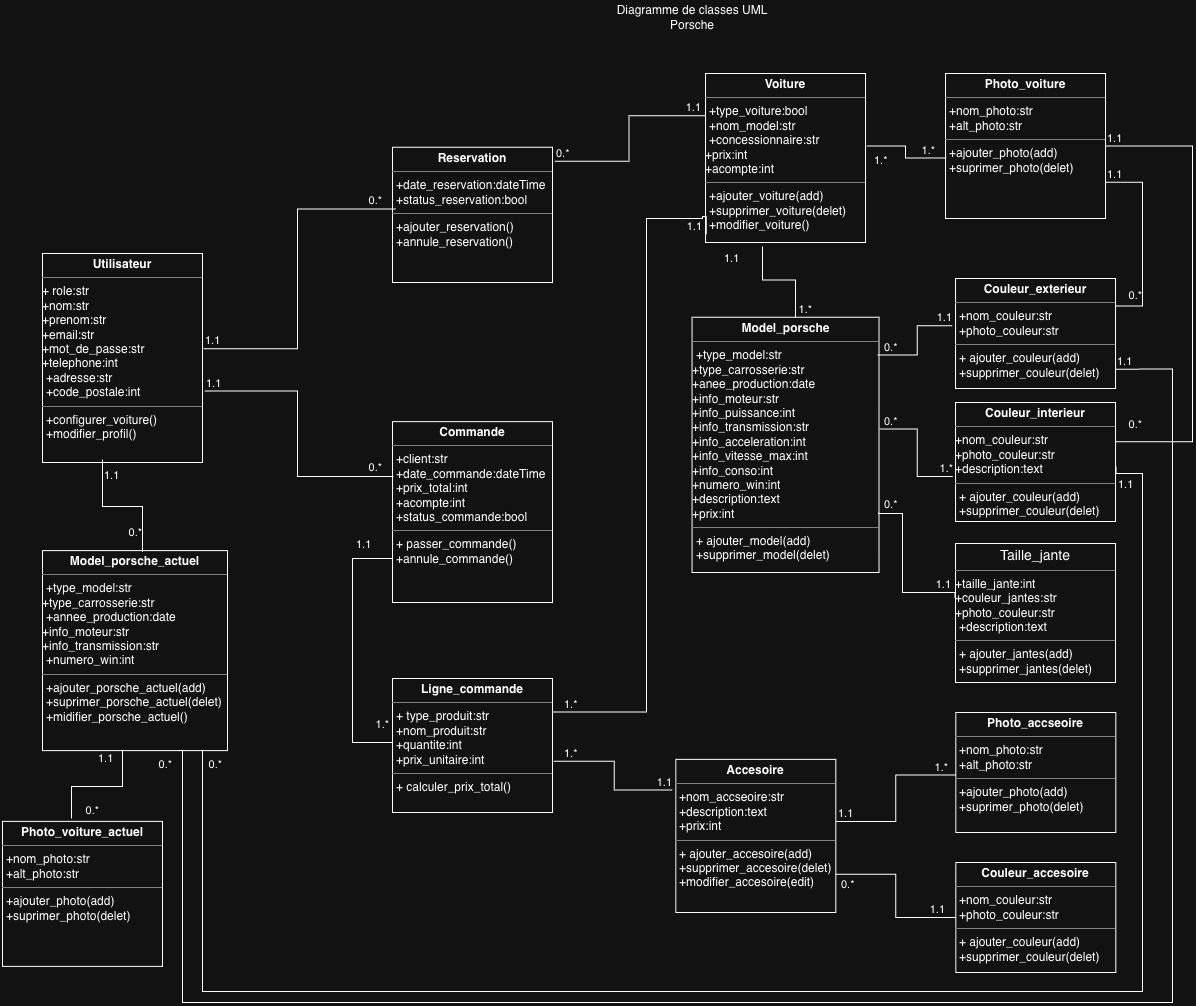
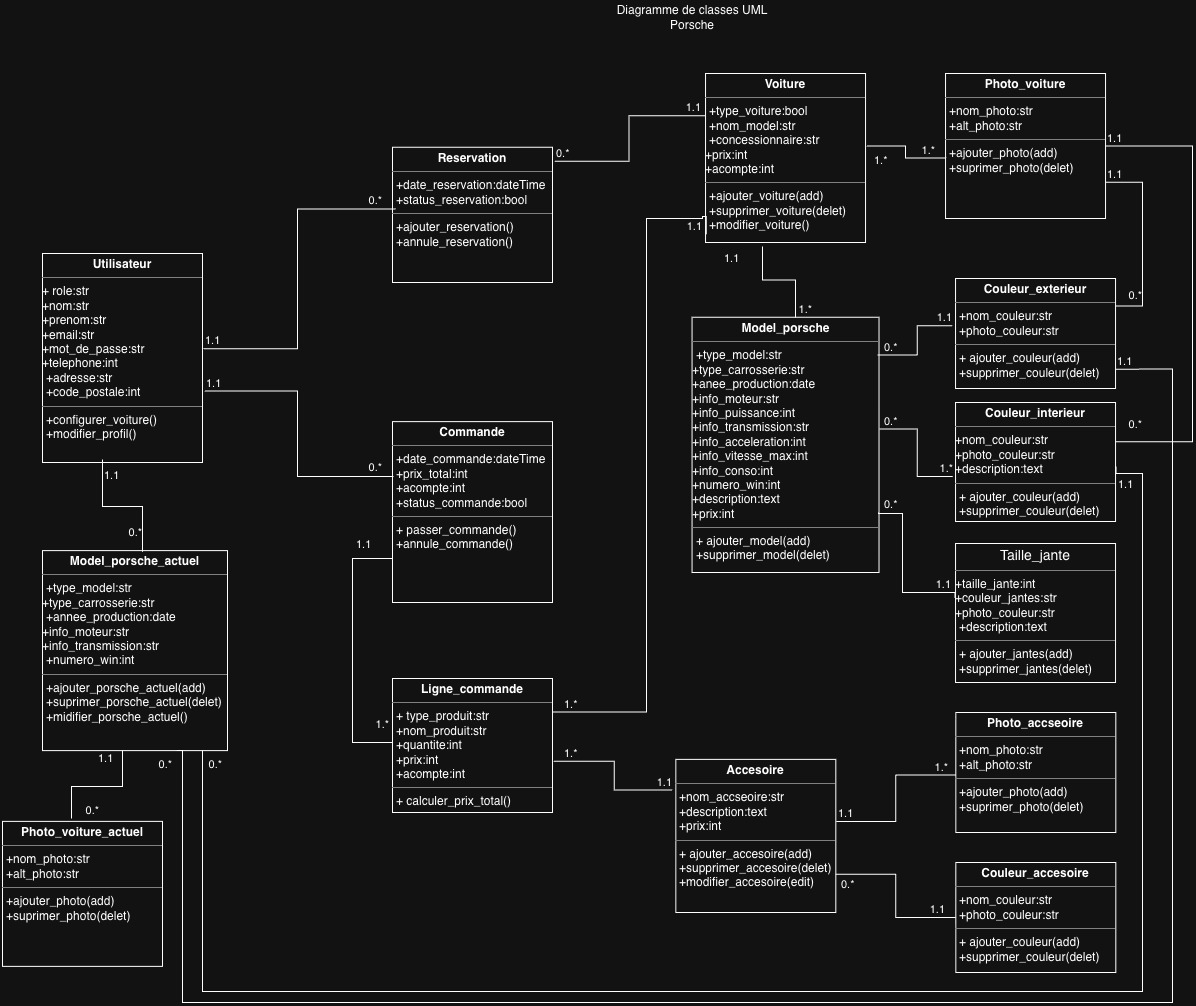
commit_3

Changed region(s): [[0.3403, 0.4314, 0.464, 0.5547], [0.3403, 0.7396, 0.4331, 0.8012]]

diff --git a/Node/controllers/reservation.controller.js b/Node/controllers/reservation.controller.js
@@ -66,7 +66,7 @@ const createReservation = async (req, res) => {
     // Populate pour retourner les détails complets
     const infoReservation = await Reservation.findById(newReservation._id)
       .populate("user", "nom prenom email telephone")
-      .populate("voiture", "type_model concessionnaire prix");
+      .populate("voiture", "nom_model concessionnaire prix");
 
     return res.status(201).json(infoReservation);
   } catch (error) {
@@ -79,7 +79,7 @@ const getAllReservations = async (req, res) => {
   try {
     const reservations = await Reservation.find()
       .populate("user", "nom prenom email telephone")
-      .populate("voiture", "type_model concessionnaire prix ")
+      .populate("voiture", "nom_model concessionnaire prix ")
       .sort({ date_reservation: -1 }); // Trier par date décroissante
     return res.status(200).json(reservations);
   } catch (error) {
@@ -92,7 +92,7 @@ const getReservationById = async (req, res) => {
   try {
     const reservation = await Reservation.findById(req.params.id)
       .populate("user", "nom prenom email telephone")
-      .populate("voiture", "type_model concessionnaire prix");
+      .populate("voiture", "nom_model concessionnaire prix");
     if (!reservation) {
       return res.status(404).json({ message: "réservation n'existe pas" });
     }
@@ -153,7 +153,7 @@ const updateReservation = async (req, res) => {
       { new: true }
     )
       .populate("user", "nom prenom email telephone")
-      .populate("voiture", "type_model concessionnaire prix");
+      .populate("voiture", "nom_model concessionnaire prix");
 
     if (!updatedReservation) {
       return res.status(404).json({ message: "réservation n'existe pas" });
@@ -190,7 +190,7 @@ const getReservationsByUser = async (req, res) => {
     }
 
     const reservations = await Reservation.find({ user: userId })
-      .populate("voiture", "type_model concessionnaire prix")
+      .populate("voiture", "nom_model concessionnaire prix")
       .sort({ date_reservation: -1 });
 
     return res.status(200).json(reservations);

diff --git a/Node/controllers/Commande.controller.js b/Node/controllers/Commande.controller.js
@@ -42,12 +42,12 @@ const getCommandeById = async (req, res) => {
     const ligneCommandes = await LigneCommande.find({
       commande: req.params.id,
     })
-      .populate("type_produit_a", "prix nom_produit")
-      .populate("type_produit_v", "prix nom_produit");
+      .populate("accesoire", "prix nom_accesoire")
+      .populate("voiture", "prix nom_model");
     const total = ligneCommandes.reduce((sum, line) => {
       return (
-        sum + line.type_produit_v.prix * line.quantite ||
-        line.type_produit_a.prix * line.quantite
+        sum + line.voiture.prix * line.quantite ||
+        line.accesoire.prix * line.quantite
       );
     }, 0);
     return res
@@ -112,12 +112,12 @@ const getPanier = async (req, res) => {
     const ligneCommandes = await LigneCommande.find({
       commande: panier._id,
     })
-      .populate("type_produit_a", "nom_produit prix")
-      .populate("type_produit_v", "nom_produit prix");
+      .populate("accesoire", "nom_accesoire prix")
+      .populate("voiture", "nom_model prix");
     const total = ligneCommandes.reduce((sum, line) => {
       return (
-        sum + line.type_produit_a.prix * line.quantite ||
-        line.type_produit_v.prix * line.quantite
+        sum + line.accesoire.prix * line.quantite ||
+        line.voiture.prix * line.quantite
       );
     }, 0);
     return res

diff --git a/Node/validations/couleur_exterieur.validation.js b/Node/validations/couleur_exterieur.validation.js
@@ -1,20 +1,22 @@
 import joi from "joi";
 
-export default function couleur_exterieurValidation(body){
-    const couleur_exterieurCreate = joi.object({
-      nom_couleur: joi.string().required(),
-      photo_couleur: joi.string().required(),
-      description: joi.string()
-    })
+export default function couleur_exterieurValidation(body) {
+  const couleur_exterieurCreate = joi.object({
+    nom_couleur: joi.string().required(),
+    photo_couleur: joi.string().required(),
+    description: joi.string(),
+    photo_voiture: joi.string().hex().length(24),
+  });
 
-    const couleur_exterieurUpdate = joi.object({
-      nom_couleur: joi.string(),
-      photo_couleur: joi.string(),
-      description: joi.string()
-    })
+  const couleur_exterieurUpdate = joi.object({
+    nom_couleur: joi.string(),
+    photo_couleur: joi.string(),
+    description: joi.string(),
+    photo_voiture: joi.string().hex().length(24),
+  });
 
-    return {
-        couleur_exterieurCreate: couleur_exterieurCreate.validate(body),
-        couleur_exterieurUpdate: couleur_exterieurUpdate.validate(body),
-    }
+  return {
+    couleur_exterieurCreate: couleur_exterieurCreate.validate(body),
+    couleur_exterieurUpdate: couleur_exterieurUpdate.validate(body),
+  };
 }

diff --git a/Node/validations/couleur_interieur.validation.js b/Node/validations/couleur_interieur.validation.js
@@ -1,20 +1,22 @@
 import joi from "joi";
 
-export default function couleur_interieurValidation(body){
-    const couleur_interieurCreate = joi.object({
-      nom_couleur: joi.string().required(),
-      photo_couleur: joi.string().required(),
-      description: joi.string()
-    })
+export default function couleur_interieurValidation(body) {
+  const couleur_interieurCreate = joi.object({
+    nom_couleur: joi.string().required(),
+    photo_couleur: joi.string().required(),
+    description: joi.string(),
+    photo_voiture: joi.string().hex().length(24),
+  });
 
-    const couleur_interieurUpdate = joi.object({
-      nom_couleur: joi.string(),
-      photo_couleur: joi.string(),
-      description: joi.string()
-    })
+  const couleur_interieurUpdate = joi.object({
+    nom_couleur: joi.string(),
+    photo_couleur: joi.string(),
+    description: joi.string(),
+    photo_voiture: joi.string().hex().length(24),
+  });
 
-    return {
-        couleur_interieurCreate: couleur_interieurCreate.validate(body),
-        couleur_interieurUpdate: couleur_interieurUpdate.validate(body),
-    }
+  return {
+    couleur_interieurCreate: couleur_interieurCreate.validate(body),
+    couleur_interieurUpdate: couleur_interieurUpdate.validate(body),
+  };
 }

diff --git a/Node/validations/couleur_accesoire.validation.js b/Node/validations/couleur_accesoire.validation.js
@@ -1,20 +1,18 @@
 import joi from "joi";
 
-export default function couleur_accesoireValidation(body){
-    const couleur_accesoireCreate = joi.object({
-      nom_couleur: joi.string().required(),
-      photo_couleur: joi.string().required(),
-      description: joi.string()
-    })
+export default function couleur_accesoireValidation(body) {
+  const couleur_accesoireCreate = joi.object({
+    nom_couleur: joi.string().required(),
+    photo_couleur: joi.string().required(),
+  });
 
-    const couleur_accesoireUpdate = joi.object({
-      nom_couleur: joi.string(),
-      photo_couleur: joi.string(),
-      description: joi.string()
-    })
+  const couleur_accesoireUpdate = joi.object({
+    nom_couleur: joi.string(),
+    photo_couleur: joi.string(),
+  });
 
-    return {
-        couleur_accesoireCreate: couleur_accesoireCreate.validate(body),
-        couleur_accesoireUpdate: couleur_accesoireUpdate.validate(body),
-    }
+  return {
+    couleur_accesoireCreate: couleur_accesoireCreate.validate(body),
+    couleur_accesoireUpdate: couleur_accesoireUpdate.validate(body),
+  };
 }

diff --git a/Node/validations/voiture.validation.js b/Node/validations/voiture.validation.js
@@ -3,7 +3,7 @@ import joi from "joi";
 export default function voitureValidation(body) {
   const voitureCreate = joi.object({
     type_voiture: joi.boolean().required(),
-    type_model: joi.string().required(),
+    nom_model: joi.string().required(),
     concessionnaire: joi.string(),
     acompte: joi.number().min(0),
     prix: joi.number().min(0),
@@ -11,13 +11,13 @@ export default function voitureValidation(body) {
 
   const voitureUpdate = joi.object({
     type_voiture: joi.boolean(),
-    type_model: joi.string(),
+    nom_model: joi.string(),
     concessionnaire: joi.string(),
     acompte: joi.number().min(0),
     prix: joi.number().min(0),
   });
   const voitureAddOrRemoveImage = joi.object({
-    photo_voiture: joi.array().items(joi.string().hex().length(24)),
+    photo_voiture: joi.array().items(joi.string().hex().length(24).required()),
   });
 
   return {

diff --git a/Node/validations/ligneCommande.validation.js b/Node/validations/ligneCommande.validation.js
@@ -2,19 +2,18 @@ import joi from "joi";
 
 export default function ligneCommandeValidation(body) {
   const ligneCommandeCreate = joi.object({
-    type_produit_v: joi.string().regex(/^[0-9a-fA-F]{24}$/),
-    type_produit_a: joi.string().regex(/^[0-9a-fA-F]{24}$/),
-    commande: joi
-      .string()
-      .regex(/^[0-9a-fA-F]{24}$/)
-      .required(),
-    nom_produit: joi.string().required(),
     quantite: joi.number().min(1).required(),
     prix: joi.number().min(0).required(),
+    acompte: joi.number().min(0).required(),
+    commande: joi.string().hex().length(24).required(),
+    voiture: joi.string().hex().length(24),
+    accesoire: joi.string().hex().length(24),
   });
 
   const ligneCommandeUpdate = joi.object({
     quantite: joi.number().min(1),
+    prix: joi.number().min(0),
+    acompte: joi.number().min(0),
   });
 
   return {

diff --git a/Node/validations/model_porsche.validation.js b/Node/validations/model_porsche.validation.js
@@ -14,6 +14,9 @@ export default function model_porscheValidation(body) {
     numero_win: joi.string(),
     prix: joi.number().min(0).required(),
     voiture: joi.string().hex().length(24),
+    couleur_exterieur: joi.string().hex().length(24),
+    couleur_interieur: joi.array().items(joi.string().hex().length(24)),
+    taille_jante: joi.string().hex().length(24),
   });
 
   const model_porscheUpdate = joi.object({
@@ -29,6 +32,9 @@ export default function model_porscheValidation(body) {
     numero_win: joi.string(),
     prix: joi.number().min(0),
     voiture: joi.string().hex().length(24),
+    couleur_exterieur: joi.string().hex().length(24),
+    couleur_interieur: joi.array().items(joi.string().hex().length(24)),
+    taille_jante: joi.string().hex().length(24),
   });
 
   return {

diff --git a/Node/models/couleur_exterieur.model.js b/Node/models/couleur_exterieur.model.js
@@ -1,17 +1,24 @@
-import mongoose from 'mongoose';
+import mongoose from "mongoose";
 
-const couleur_exterieurSchema = new mongoose.Schema({
+const couleur_exterieurSchema = new mongoose.Schema(
+  {
     nom_couleur: {
       type: String,
-      required: true
+      required: true,
     },
     photo_couleur: {
       type: String,
-      required: true
+      required: true,
     },
     description: {
-      type: String
-    }
-}, { timestamps: true });
+      type: String,
+    },
+    photo_voiture: {
+      type: mongoose.Schema.Types.ObjectId,
+      ref: "Photo_voiture",
+    },
+  },
+  { timestamps: true }
+);
 
-export default mongoose.model('Couleur_exterieur', couleur_exterieurSchema);
+export default mongoose.model("Couleur_exterieur", couleur_exterieurSchema);

diff --git a/Node/models/couleur_interieur.model.js b/Node/models/couleur_interieur.model.js
@@ -1,17 +1,24 @@
-import mongoose from 'mongoose';
+import mongoose from "mongoose";
 
-const couleur_interieurSchema = new mongoose.Schema({
+const couleur_interieurSchema = new mongoose.Schema(
+  {
     nom_couleur: {
       type: String,
-      required: true
+      required: true,
     },
     photo_couleur: {
       type: String,
-      required: true
+      required: true,
     },
     description: {
-      type: String
-    }
-}, { timestamps: true });
+      type: String,
+    },
+    photo_voiture: {
+      type: mongoose.Schema.Types.ObjectId,
+      ref: "Photo_voiture",
+    },
+  },
+  { timestamps: true }
+);
 
-export default mongoose.model('Couleur_interieur', couleur_interieurSchema);
+export default mongoose.model("Couleur_interieur", couleur_interieurSchema);

diff --git a/Node/models/ligneCommande.model.js b/Node/models/ligneCommande.model.js
@@ -2,11 +2,11 @@ import mongoose from "mongoose";
 
 const ligneCommandeSchema = new mongoose.Schema(
   {
-    type_produit_v: {
+    voiture: {
       type: mongoose.Schema.Types.ObjectId,
       ref: "Voiture",
     },
-    type_produit_a: {
+    accesoire: {
       type: mongoose.Schema.Types.ObjectId,
       ref: "Accesoire",
     },
@@ -15,16 +15,17 @@ const ligneCommandeSchema = new mongoose.Schema(
       ref: "Commande",
       required: true,
     },
-    nom_produit: {
-      type: String,
-      required: true,
-    },
     quantite: {
       type: Number,
       required: true,
       default: 1,
     },
     prix: {
+      type: Number,
+      required: true,
+      default: 0,
+    },
+    acompte: {
       type: Number,
       required: true,
       default: 0,

diff --git a/Node/validations/model_porsche_actuel.validation.js b/Node/validations/model_porsche_actuel.validation.js
@@ -9,6 +9,8 @@ export default function model_porsche_actuelValidation(body) {
     info_transmission: joi.string(),
     numero_win: joi.string(),
     user: joi.string().hex().length(24),
+    couleur_interieur: joi.string().hex().length(24),
+    couleur_exterieur: joi.string().hex().length(24),
   });
 
   const model_porsche_actuelUpdate = joi.object({
@@ -18,7 +20,8 @@ export default function model_porsche_actuelValidation(body) {
     info_moteur: joi.string(),
     info_transmission: joi.string(),
     numero_win: joi.string(),
-    user: joi.string().hex().length(24),
+    couleur_interieur: joi.string().hex().length(24),
+    couleur_exterieur: joi.string().hex().length(24),
   });
 
   const model_porsche_actuelAddOrRemoveImage = joi.object({
